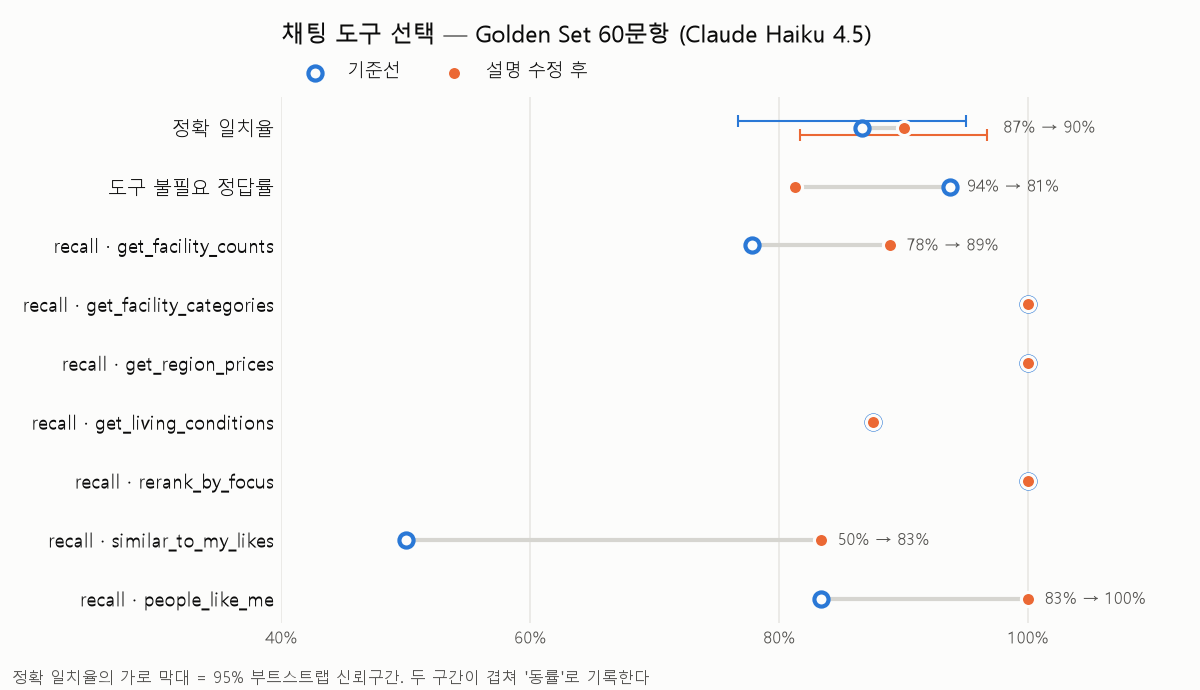
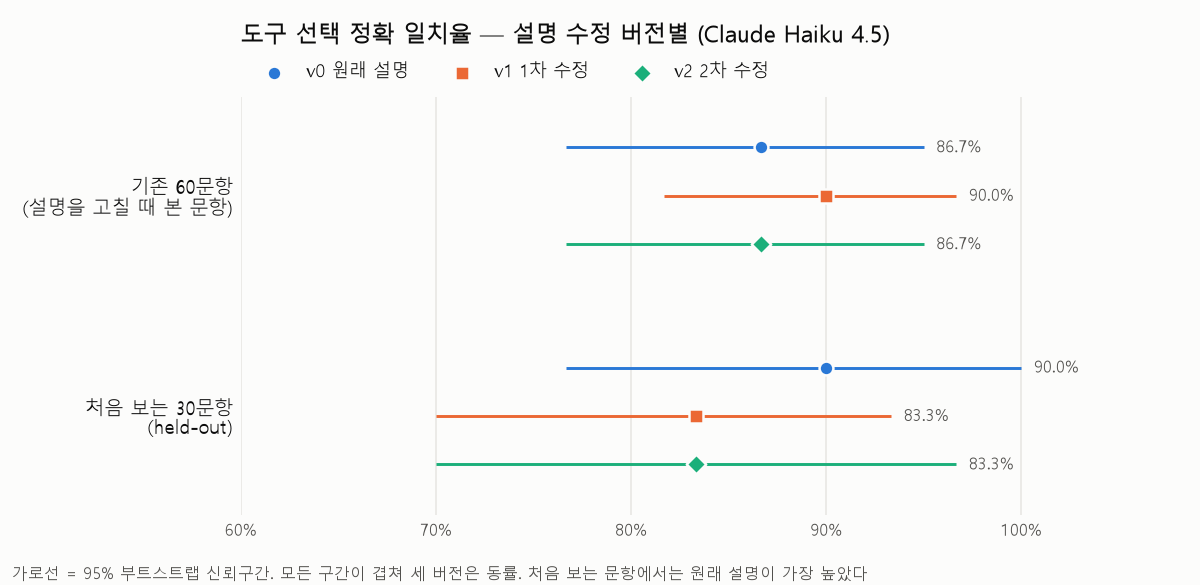
revert: 도구 설명을 원래대로 — held-out 에서 1·2차 수정 모두 90.0% → 83.3%(과적합), 세 버전 동률 기록

diff --git a/app/tools/tools.py b/app/tools/tools.py
@@ -173,9 +173,7 @@ TOOL_SPECS = [
         "name": "get_facility_counts",
         "description": (
             f"행정동 하나의 시설 종류별 개수를 센다 ({_KINDS_TEXT}). "
-            "위 종류 이름 그대로 '몇 개·얼마나·많아·있어'를 묻는 질문에 쓴다 — "
-            "\"학원 몇 개야\", \"병원 있어?\", \"공원 많은 편이야?\", \"가게 많아?\". "
-            "시장·마트·백화점처럼 점포를 뭉뚱그려 묻는 것도 여기다."
+            "\"학원 몇 개야\", \"병원 있어?\", \"학교 몇 곳이야\" 같은 질문에 쓴다."
         ),
         "input_schema": _DONG_INPUT,
     },
@@ -183,8 +181,7 @@ TOOL_SPECS = [
         "name": "get_facility_categories",
         "description": (
             f"시설 종류 하나({_KINDS_TEXT})의 세부 분류별 개수를 센다. '학교·유치원' 은 유치원·초등학교·중학교·고등학교로 갈린다. "
-            "종류보다 한 단계 아래(영어학원·소아과·중학교·유치원)를 콕 집거나 '어떤 종류가 있어'처럼 분류 구성을 물을 때만 쓴다 — "
-            "\"영어학원 몇 곳\", \"어떤 병원이 많아\", \"유치원 있어?\". 종류 전체의 개수만 물으면 get_facility_counts 다."
+            "\"영어학원 몇 곳\", \"어떤 병원이 많아\", \"유치원 있어?\" 같은 세부 질문에 쓴다."
         ),
         "input_schema": {
             "type": "object",
@@ -205,8 +202,7 @@ TOOL_SPECS = [
         "description": (
             "행정동 하나의 주택 시세 중앙값을 건물유형(아파트·연립다세대·단독다가구·오피스텔)별 "
             "매매·전세·월세로 준다. 신뢰등급·거래건수도 붙는다. "
-            "\"전세 얼마야\", \"여기 비싸?\", \"아파트 매매가\" 같은 질문에 쓴다. "
-            "관리비·생활비·교육비처럼 집값이 아닌 돈은 이 도구에 없으니 고르지 않는다."
+            "\"전세 얼마야\", \"여기 비싸?\", \"아파트 매매가\" 같은 질문에 쓴다."
         ),
         "input_schema": _DONG_INPUT,
     },
@@ -215,8 +211,7 @@ TOOL_SPECS = [
         "description": (
             "행정동 하나의 생활 여건(소음·미세먼지 같은 구 단위 평균, 거주안정성, "
             "평균 가구원수·1인가구 비율, 보행편의 백분위)을 준다. "
-            "\"시끄러워?\", \"공기 어때?\", \"1인 가구 많아?\", \"오래 사는 동네야?\" 같은 질문에 쓴다. "
-            "소음·미세먼지·대기질은 지표 점수에 없어 이 도구로만 답할 수 있다."
+            "\"시끄러워?\", \"1인 가구 많아?\", \"오래 사는 동네야?\" 같은 질문에 쓴다."
         ),
         "input_schema": _DONG_INPUT,
     },
@@ -244,10 +239,8 @@ TOOL_SPECS = [
         "name": "similar_to_my_likes",
         "description": (
             "사용자가 좋아요(찜)를 누른 동네를 기준으로 지표 점수가 닮은 동네를 찾는다. 지금 추천된 동네들이 각각 얼마나 닮았는지와, "
-            "추천 밖에서 서울 전체로 가장 닮은 다섯 곳을 준다. 질문에 좋아요·찜(찜 목록·찜한 곳)이라는 말이 있을 때만 쓰고, "
-            "그때는 비교·닮은 곳·비슷한 곳 어느 쪽을 물어도 이 도구다 — "
-            "\"내가 좋아요 누른 동네랑 비슷한 곳은?\", \"찜해 둔 데랑 견주면 지금 추천은 어때?\". "
-            "다른 사람·회원 기준이면 people_like_me 다."
+            "추천 밖에서 서울 전체로 가장 닮은 다섯 곳을 준다. 질문에 좋아요·찜이라는 말이 있을 때만 쓴다 — "
+            "\"내가 좋아요 누른 동네랑 비슷한 곳은?\", \"찜한 곳이랑 비교하면 어때?\""
         ),
         "input_schema": {"type": "object", "properties": {}},
     },
@@ -256,8 +249,7 @@ TOOL_SPECS = [
         "description": (
             "사용자와 닮은 회원들이 실제로 사는 동네를 기준으로 지표 점수가 닮은 동네를 찾는다. 지금 추천된 동네들이 각각 얼마나 닮았는지와, "
             "추천 밖에서 서울 전체로 가장 닮은 다섯 곳을 준다. "
-            "\"나 같은 사람들은 보통 어디를 골라?\", \"나랑 비슷한 사람들은 어디 살아?\" 같은 질문에 쓴다. "
-            "기준이 다른 사람·회원·성향이 닮은 이들이면 여기다(좋아요·찜이 기준이면 similar_to_my_likes)."
+            "\"나 같은 사람들은 보통 어디를 골라?\", \"나랑 비슷한 사람들은 어디 살아?\" 같은 질문에 쓴다"
         ),
         "input_schema": {"type": "object", "properties": {}},
     },

diff --git a/docs/eval_tool_select.md b/docs/eval_tool_select.md
@@ -7,66 +7,73 @@
 - **무엇을**
   - `data/golden/tool_select.csv` — Golden Set 60문항. 도구별 6~9문항, 도구 불필요 16문항
     (비회원이 회원 전용 기능을 묻는 3문항 포함), 도구 2개 6문항, 동네 비교 2문항.
+  - `data/golden/tool_select_holdout.csv` — 처음 보는 문항 30개(held-out). 2차 수정 **전에** 작성했고,
+    도구 설명을 고칠 때는 보지 않는다. 일반화를 확인하는 용도다.
   - `pipeline/golden_tools.py` — 실제 경로인 `chat_plan_node()`를 그대로 불러 고른 도구 이름을 모은다
     (도구는 실행하지 않아 DB를 안 읽는다). 정확 일치율(+95% 부트스트랩 구간), 도구별 precision/recall,
     도구 불필요 정답률, 회원 전용 도구 오용 건수, 2회 실행 불일치율, 혼동 표를 낸다.
   - `tests/test_golden_tools.py` — 채점 함수만 검사한다(Claude 호출 없음).
-  - `app/tools/tools.py` — 기준선에서 틀린 유형에 맞춰 도구 description 6개를 한 번 고쳤다.
-- **실행**: `py -m pipeline.golden_tools --twice` (Claude 120번 호출 — 요금이 들어 CI에는 넣지 않는다)
+- **실행**: `py -m pipeline.golden_tools --twice` · `py -m pipeline.golden_tools --holdout --twice`
+  (각각 Claude 120번 · 60번 — 요금이 들어 CI에는 넣지 않는다)
 
 ### 측정
 
-조건: 같은 60문항, Claude Haiku 4.5(`claude-haiku-4-5-20251001`), 대화 기록 없음, 추천 동네 5곳 고정.
-기준선과 개선 후 모두 `--twice`로 두 번 돌렸다.
+조건: Claude Haiku 4.5(`claude-haiku-4-5-20251001`), 대화 기록 없음, 추천 동네 5곳 고정.
+모든 버전을 두 평가셋에서 `--twice`로 두 번씩 돌렸다. 2회 실행 불일치율은 모든 측정에서 0%였다.
 
-![도구 선택 기준선 대비 개선 후](img/tool_select.png)
+![설명 수정 버전별 정확 일치율](img/tool_select.png)
 
-| 지표 | 기준선 | description 수정 후 |
+| 지표 | v0 원래 설명 | v1 1차 수정 | v2 2차 수정 |
+|---|---|---|---|
+| **60문항** 정확 일치율 (95% CI) | 86.7% (76.7–95.0) | 90.0% (81.7–96.7) | 86.7% (76.7–95.0) |
+| 60문항 도구 불필요 정답률 | 93.8% | 81.2% | 87.5% |
+| **held-out 30문항** 정확 일치율 (95% CI) | **90.0% (76.7–100)** | 83.3% (70.0–93.3) | 83.3% (70.0–96.7) |
+| held-out 도구 불필요 정답률 | 90.0% | 90.0% | 90.0% |
+| 회원 전용 도구 오용 (두 셋 모두) | 0건 | 0건 | 0건 |
+| 60문항 `get_facility_counts` recall | 78% | 89% | 56% |
+| 60문항 `similar_to_my_likes` recall | 50% | 83% | 83% |
+| held-out `similar_to_my_likes` recall | 100% | 50% | 50% |
+
+**판정: 세 버전 모두 동률.** 모든 신뢰구간이 겹친다. 처음 보는 문항에서는 원래 설명(v0)이 가장 높았다.
+→ **도구 설명은 v0로 되돌렸다.** 코드에 남은 변경은 평가 도구뿐이다.
+
+### 무엇이 일어났나
+
+| 버전 | 고친 것 (60문항에서 틀린 유형만 보고) | 60문항에서 | held-out에서 |
+|---|---|---|---|
+| v1 | 찜=좋아요, 회원 기준 vs 찜 기준, 종류 개수 vs 세부 분류, 관리비·미세먼지 | 찜·회원 문항이 고쳐졌다. 대신 개수 도구에 넣은 "많아·있어" 규칙이 넓어 "안전한 편이야?"·"학군 배정은?"까지 도구로 끌어갔다(도구 불필요 93.8 → 81.2%) | 90.0 → 83.3%. 찜 비교·버스 기준 재정렬을 새로 놓쳤다 |
+| v2 | v1의 넓은 규칙을 빼고 "지표·학군 질문엔 쓰지 않는다"를 개수 도구 둘에 붙임 | 과잉 호출은 일부 줄었지만(81.2 → 87.5%) "학원 몇 개야?"를 세부 분류 도구로 보내는 새 실수가 생겼다(개수 recall 89 → 56%) | 83.3% 그대로 |
+
+**배운 것**: 틀린 문항을 보고 설명을 고치면 그 문항은 고쳐지지만, 다른 곳에서 비슷한 수의 새 실수가 생겼다.
+60문항만 봤다면 v1을 "86.7 → 90.0% 개선"으로 기록했을 것이다. 처음 보는 문항으로 재고 나서야
+과적합(60문항 +3.3%p, held-out −6.7%p)이 드러났다.
+
+### v0 혼동 (기대 → 실제, 60문항)
+
+| 기대 | 실제 | 건수 |
 |---|---|---|
-| 정확 일치율 (95% CI) | 86.7% (76.7–95.0%) | 90.0% (81.7–96.7%) |
-| 도구 불필요 정답률 | 93.8% (15/16) | **81.2% (13/16)** |
-| 회원 전용 도구 오용 | 0건 | 0건 |
-| 2회 실행 불일치율 | 0.0% | 0.0% |
-| `get_facility_counts` P / R | 100% / 78% | 80% / 89% |
-| `get_facility_categories` P / R | 75% / 100% | 75% / 100% |
-| `get_region_prices` P / R | 90% / 100% | 90% / 100% |
-| `get_living_conditions` P / R | 100% / 88% | 100% / 88% |
-| `rerank_by_focus` P / R | 100% / 100% | 100% / 100% |
-| `similar_to_my_likes` P / R | 75% / 50% | 100% / 83% |
-| `people_like_me` P / R | 100% / 83% | 100% / 100% |
+| `similar_to_my_likes` | (없음) | 3 |
+| `get_facility_counts` | `get_facility_categories` | 2 |
+| `people_like_me` | `similar_to_my_likes` | 1 |
+| `get_living_conditions` | (없음) | 1 |
+| (없음) | `get_region_prices` | 1 |
 
-**판정: 동률.** 정확 일치율이 52 → 54문항으로 올랐지만 두 신뢰구간이 겹친다.
-회원 도구의 recall은 확실히 올랐고, 그 대신 도구가 필요 없는 질문에도 도구를 부르는 일이 늘었다.
-
-### 혼동 (기대 → 실제)
-
-| 기대 | 실제 | 기준선 | 수정 후 |
-|---|---|---|---|
-| `similar_to_my_likes` | (없음) | 3 | 1 |
-| `get_facility_counts` | `get_facility_categories` | 2 | 1 |
-| `people_like_me` | `similar_to_my_likes` | 1 | 0 |
-| `get_living_conditions` | (없음) | 1 | 1 |
-| (없음) | `get_region_prices` | 1 | 1 |
-| (없음) | `get_facility_counts` | 0 | 2 |
-| (없음) | `get_facility_categories` | 0 | 1 |
-
-### 틀린 유형과 수정
-
-| 유형 | 기준선에서 틀린 문항 | 수정한 description | 결과 |
-|---|---|---|---|
-| "찜"을 좋아요로 못 알아봄 | 찜한 곳이랑 비교하면 어때? 외 2 | 찜·찜 목록도 좋아요와 같다, 비교·닮은 곳 어느 쪽이든 이 도구 | 3 → 1 |
-| 회원 기준과 찜 기준 혼동 | 나랑 성향 비슷한 회원들이 사는 동네랑 닮은 곳은? | 기준이 다른 사람·회원이면 `people_like_me` | 해결 |
-| 종류 개수를 세부 분류로 | 문화시설 얼마나 있어? · 점포 많아? | 세부 분류는 한 단계 아래를 콕 집을 때만 | 2 → 1 |
-| 데이터에 없는 돈을 시세로 | 관리비는 얼마 정도 나와? | 관리비·생활비는 이 도구에 없다 | **안 고쳐짐** |
-| 미세먼지를 지표로 착각 | 대치1동 미세먼지는 어때? | 소음·미세먼지는 이 도구로만 답한다 | **안 고쳐짐** |
-| (새로 생김) 과잉 호출 | 서교동 안전한 편이야? · 학군 배정은? | — | 0 → 2 |
+held-out에서 v0이 틀린 3문항: "의료 환경은 좋아?"에 도구를 부름, "학원 많아?"를 세부 분류로, "공기 질은 어때?"에 도구를 안 씀.
 
 ### 남은 것
 
-- **과잉 호출이 늘었다.** `get_facility_counts`에 넣은 "몇 개·얼마나·많아·있어" 규칙이 넓어서
-  "안전한 편이야?", "학군 배정은?"까지 도구로 끌어간 것으로 본다. 다음에는 이 규칙을 좁히거나
-  PLAN_PROMPT의 "지표 질문은 도구를 고르지 않는다" 예시를 늘려 다시 잰다.
-- **description을 같은 60문항을 보고 고쳤다.** 질문 문구를 그대로 옮기지는 않았지만 이 문항들에
-  맞춰졌을 수 있다. 수정 전에 보지 않은 문항(held-out)으로 다시 재야 일반화를 말할 수 있다.
+- **설명 수정으로는 더 올리기 어렵다.** 남은 실수(찜·미세먼지·개수 vs 분류)는 매번 다른 곳으로 옮겨 다녔다.
+  다음 수단은 구조 변경이다. 예: "찜·좋아요" 같은 낱말은 LLM 판단 전에 키워드 규칙으로 먼저 라우팅,
+  또는 개수 도구 둘을 `kind`가 선택인 도구 하나로 합쳐 헷갈릴 선택지 자체를 없애기.
+- **표본이 작다.** 60·30문항이면 신뢰구간 폭이 ±10%p 안팎이라 3%p 차이는 가릴 수 없다.
+  같은 문항의 짝 비교(McNemar)를 쓰거나 문항을 늘려야 작은 개선을 판정할 수 있다.
 - 도구 인자(gu·dong·kind)가 맞는지는 재지 않았다. 이름만 본다.
 - 대화 기록이 있는 질문("거기는?")은 문항에 없다.
+- held-out 30문항은 v1 결과를 본 뒤에 v2를 만들었다. v2 규칙에 held-out 문구는 넣지 않았지만
+  틀린 유형을 이미 본 상태였다는 점은 밝혀 둔다.
+
+### 이력서에 넣을 한 줄
+
+측정 기준이 없던 Function Calling 도구 선택을 **Golden Set 60문항 + held-out 30문항**으로 평가하는 체계를 만들어,
+기존 문항에서 86.7% → 90.0%로 오른 것처럼 보이던 도구 설명 수정이 **처음 보는 문항에서는 90.0% → 83.3%로 떨어진 과적합**임을
+잡아내고 원래 설명을 유지

diff --git a/README.md b/README.md
@@ -295,7 +295,7 @@ POST /search  "애들 학원 보내기 좋은 곳"
 - 제외 필터 없음 (`exclude_gu` — "강남 외")
 - `pipeline/schema.py`의 일부 단계가 `if __name__` 없이 모듈 최상위에서 실행됨 — import만 해도 돈다
 - 월세는 시세 25~75% 분포를 못 보여줌 — 원본에 `월임대료` 분위 칼럼이 없음
-- 추천 정확도(hit@k)는 `py -m pipeline.golden_search`로 잽니다(27문항, Claude를 부릅니다 — 요금 주의). 채팅의 도구 선택은 `py -m pipeline.golden_tools`로 잽니다(60문항, 결과: [docs/eval_tool_select.md](docs/eval_tool_select.md))
+- 추천 정확도(hit@k)는 `py -m pipeline.golden_search`로 잽니다(27문항, Claude를 부릅니다 — 요금 주의). 채팅의 도구 선택은 `py -m pipeline.golden_tools`로 잽니다(60문항 + held-out 30문항, 결과: [docs/eval_tool_select.md](docs/eval_tool_select.md))
 
 <details>
 <summary><b>검토한 대안 — 목표가 일치도를 순위에도 반영할 것인가</b></summary>
